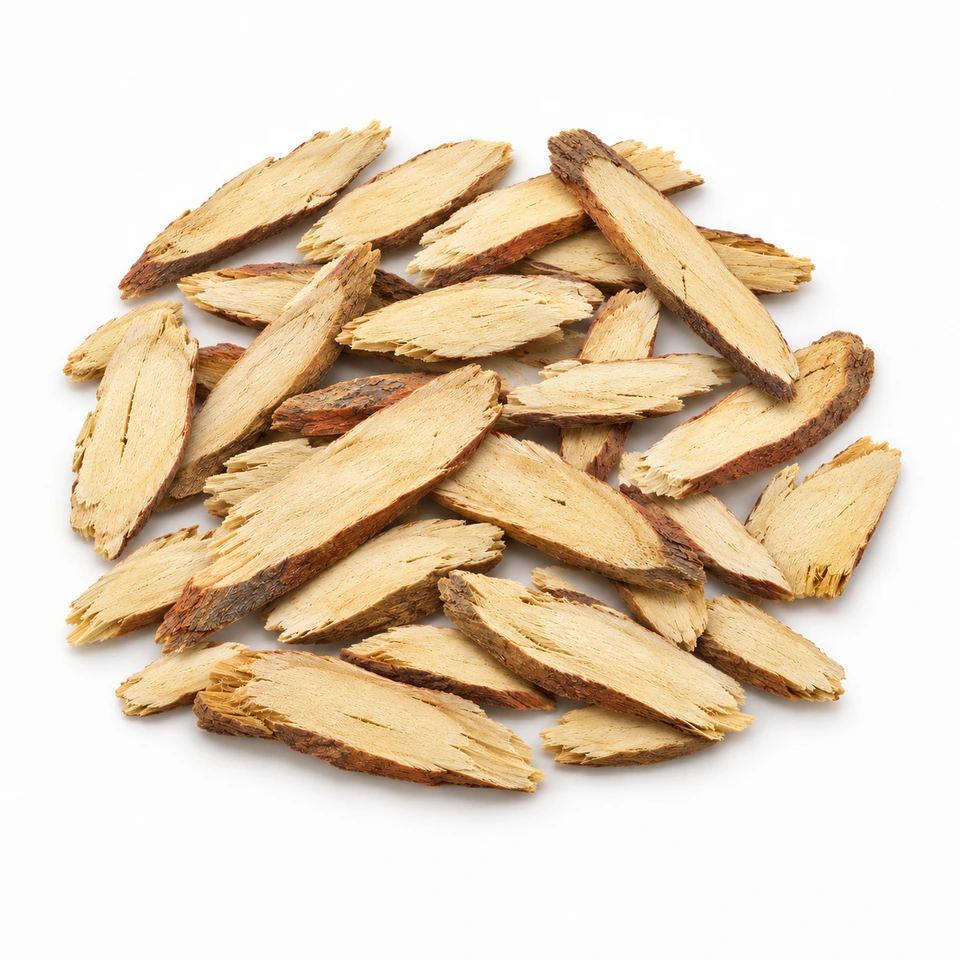
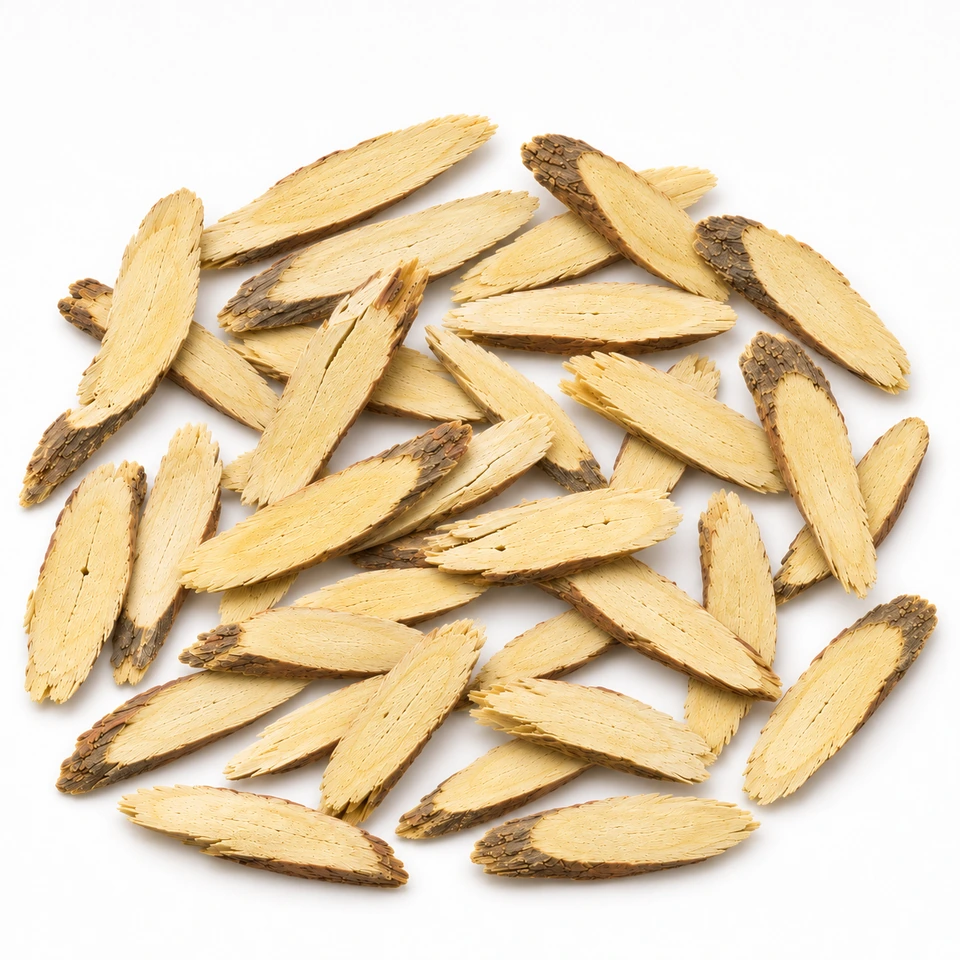
Match Yangwai 1 licorice color to grade 2 and slightly enlarge selected pieces

diff --git a/app/ProductImage.js b/app/ProductImage.js
@@ -8,7 +8,7 @@ export default function ProductImage({ src, name, origin }) {
   const visible = Boolean(src) && !failed;
   const reference = src?.startsWith("/products-reference/");
   const localPhoto = reference || src?.startsWith("/products/");
-  const imageSrc = localPhoto ? `${src}${src.includes("?") ? "&" : "?"}photo=${src.split("?")[0] === "/products-reference/uniform-20261029/herb-001.webp" ? "gaja-20261117-v1" : src.split("?")[0] === "/products-reference/uniform-20261029/herb-003-v2.webp" ? "galgeun-20261117-v1" : src.split("?")[0] === "/products-reference/uniform-20261029/herb-004.webp" ? "galhwa-20261118-v1" : src.split("?")[0] === "/products-reference/uniform-20261029/herb-005.webp" ? "gamguk-20261118-v1" : src.split("?")[0] === "/products-reference/uniform-20261029/gamin-geomin.webp" ? "geomin-20261118-v1" : src.split("?")[0] === "/products-reference/uniform-20261029/herb-007.webp" ? "licorice-20261118-v1" : "linen-20261116-v2"}` : src;
+  const imageSrc = localPhoto ? `${src}${src.includes("?") ? "&" : "?"}photo=${src.split("?")[0] === "/products-reference/uniform-20261029/herb-001.webp" ? "gaja-20261117-v1" : src.split("?")[0] === "/products-reference/uniform-20261029/herb-003-v2.webp" ? "galgeun-20261117-v1" : src.split("?")[0] === "/products-reference/uniform-20261029/herb-004.webp" ? "galhwa-20261118-v1" : src.split("?")[0] === "/products-reference/uniform-20261029/herb-005.webp" ? "gamguk-20261118-v1" : src.split("?")[0] === "/products-reference/uniform-20261029/gamin-geomin.webp" ? "geomin-20261118-v1" : src.split("?")[0] === "/products-reference/uniform-20261029/herb-007.webp" ? "licorice-20261118-v1" : src.split("?")[0] === "/products-reference/uniform-20261029/gamcho-yangwai1-20261118.webp" ? "yangwai1-20261118-v2" : "linen-20261116-v2"}` : src;
   const domesticGalgeun = /^갈근(?:\s*\((?:사각|강원문막)\))?$/.test(name || "")
     && /국내산|국산|한국|대한민국/.test(origin || "")
     && src?.split("?")[0] === "/products-reference/uniform-20261029/herb-003-v2.webp";
